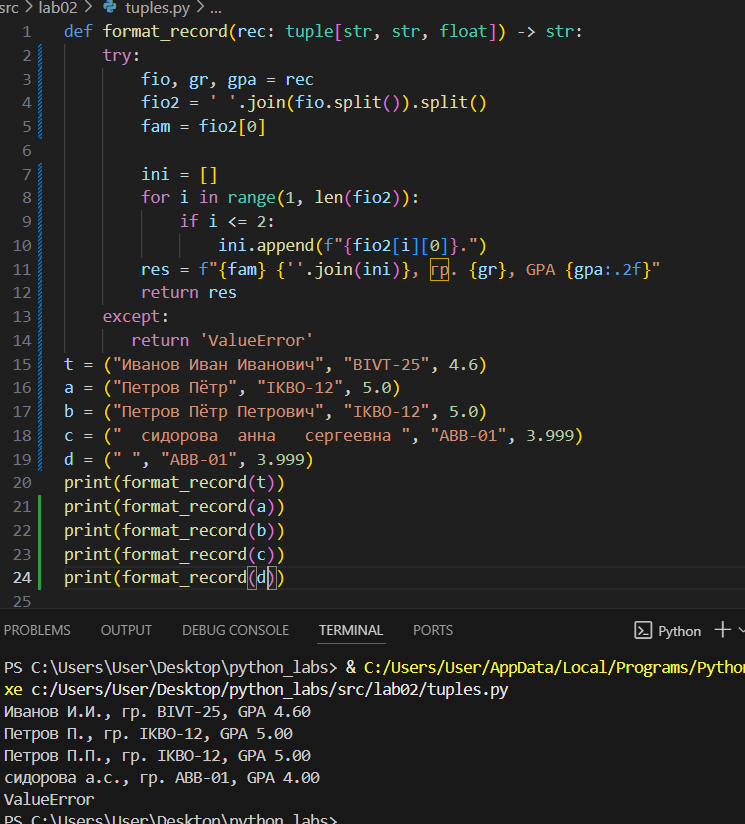
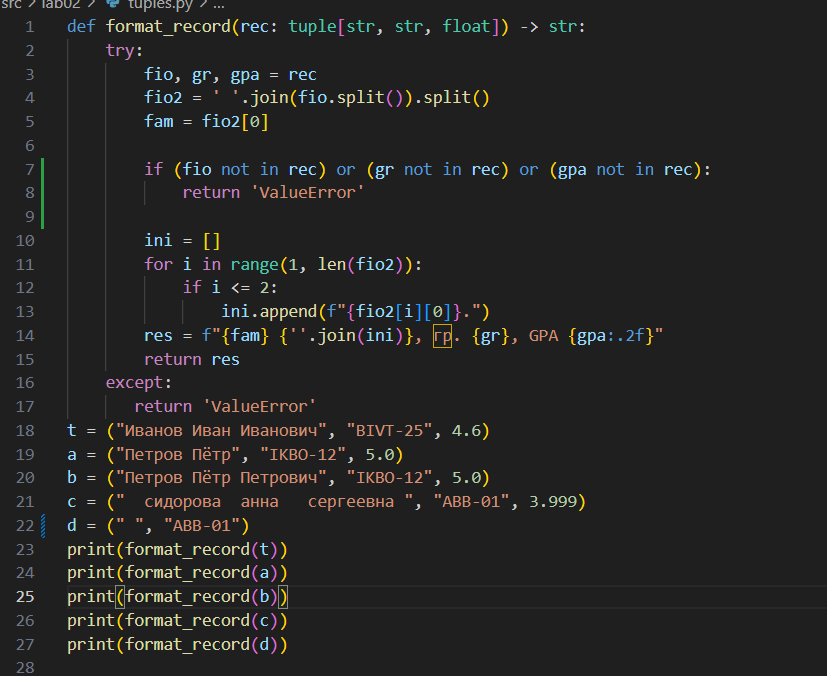
ДОБАВИЛ

diff --git a/src/lab02/tuples.py b/src/lab02/tuples.py
@@ -4,6 +4,9 @@ def format_record(rec: tuple[str, str, float]) -> str:
         fio2 = ' '.join(fio.split()).split()
         fam = fio2[0]
 
+        if (fio not in rec) or (gr not in rec) or (gpa not in rec):
+            return 'ValueError'
+
         ini = []
         for i in range(1, len(fio2)):
             if i <= 2:
@@ -16,7 +19,7 @@ t = ("Иванов Иван Иванович", "BIVT-25", 4.6)
 a = ("Петров Пётр", "IKBO-12", 5.0)
 b = ("Петров Пётр Петрович", "IKBO-12", 5.0)
 c = ("  сидорова  анна   сергеевна ", "ABB-01", 3.999)
-d = (" ", "ABB-01", 3.999)
+d = (" ", "ABB-01")
 print(format_record(t))
 print(format_record(a))
 print(format_record(b))

diff --git a/README.md b/README.md
@@ -150,6 +150,9 @@ def format_record(rec: tuple[str, str, float]) -> str:
         fio2 = ' '.join(fio.split()).split()
         fam = fio2[0]
 
+        if (fio not in rec) or (gr not in rec) or (gpa not in rec):
+            return 'ValueError'
+
         ini = []
         for i in range(1, len(fio2)):
             if i <= 2:
@@ -162,7 +165,7 @@ t = ("Иванов Иван Иванович", "BIVT-25", 4.6)
 a = ("Петров Пётр", "IKBO-12", 5.0)
 b = ("Петров Пётр Петрович", "IKBO-12", 5.0)
 c = ("  сидорова  анна   сергеевна ", "ABB-01", 3.999)
-d = (" ", "ABB-01", 3.999)
+d = (" ", "ABB-01")
 print(format_record(t))
 print(format_record(a))
 print(format_record(b))
